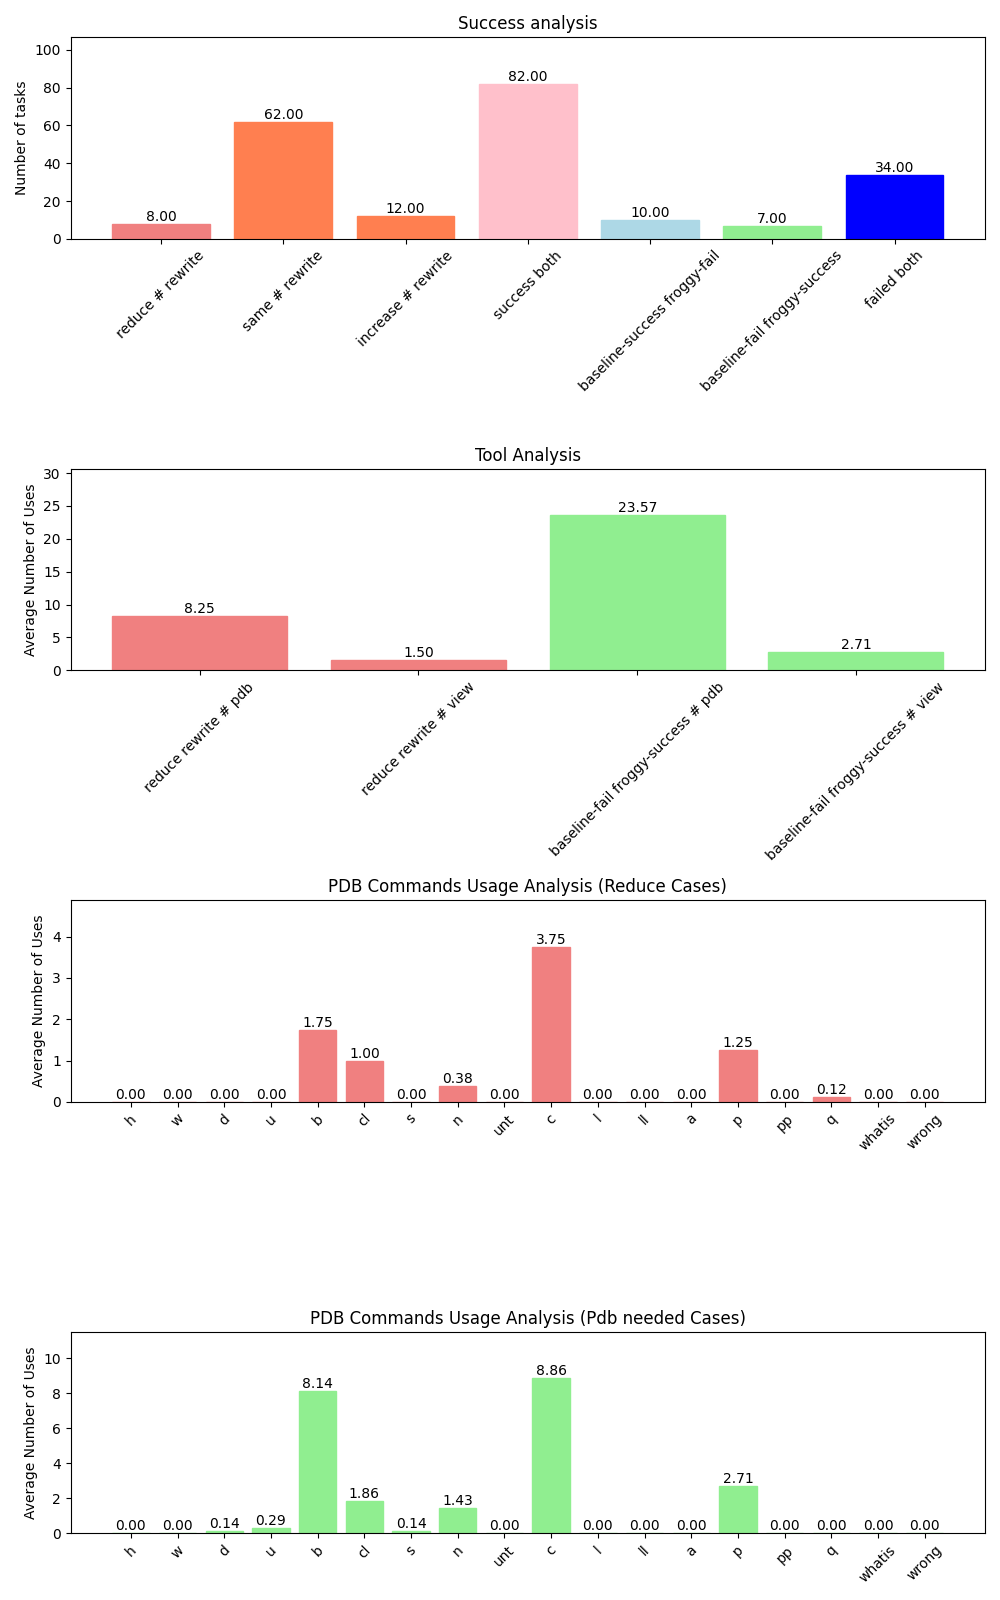
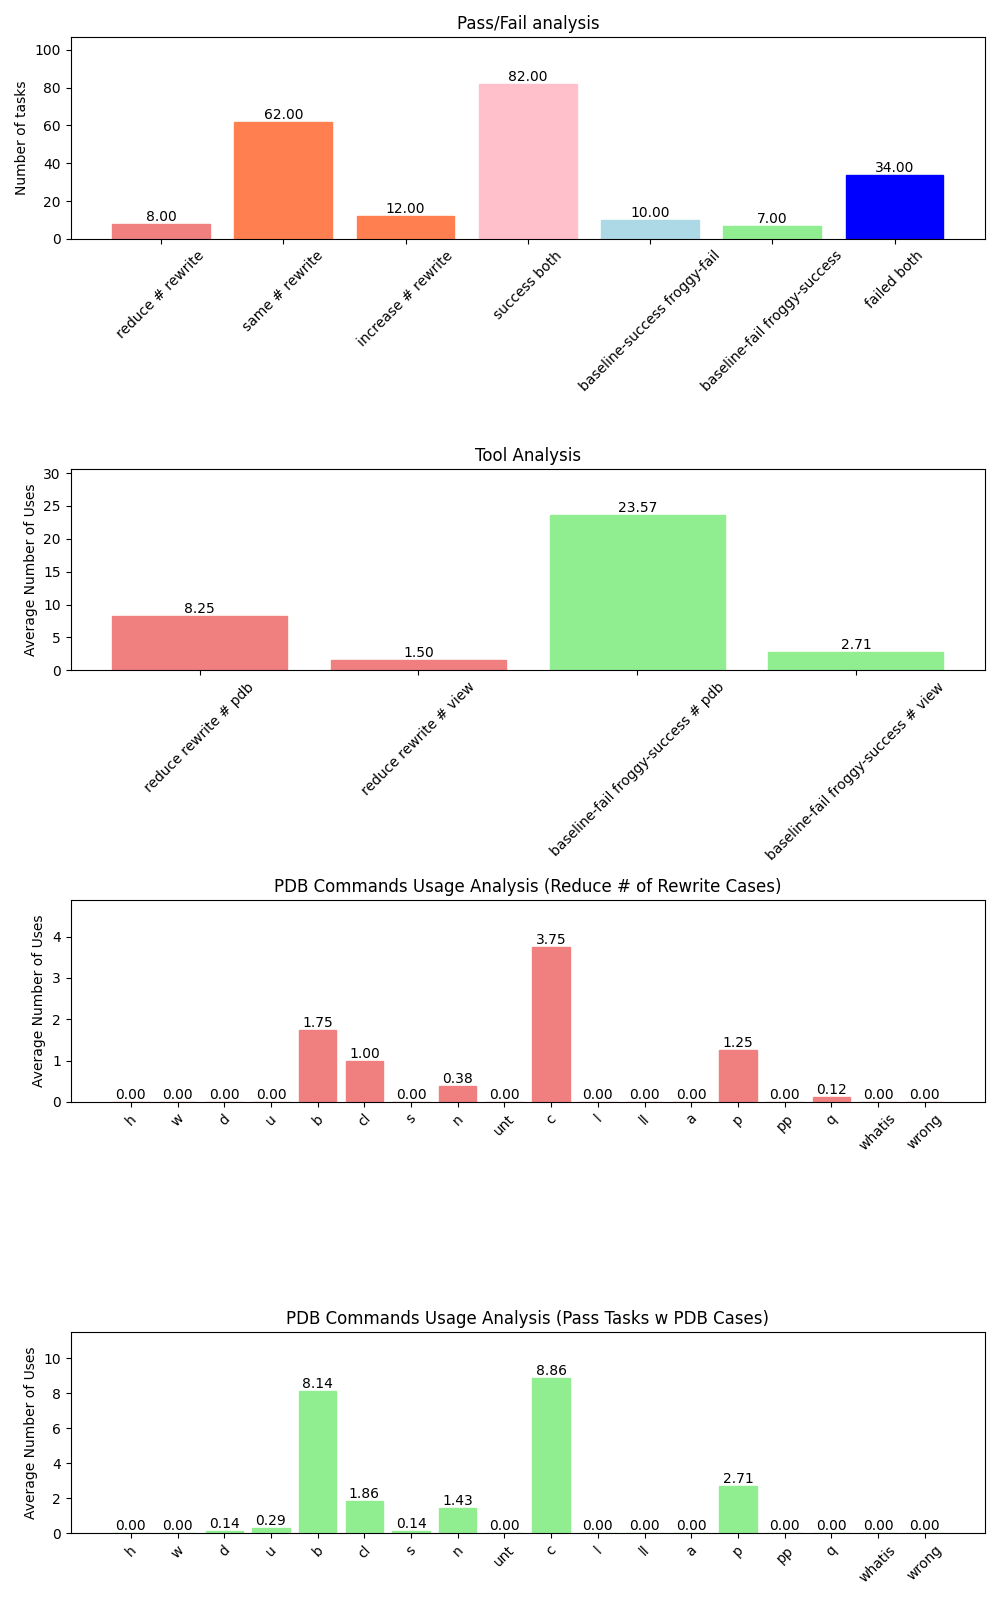
api update

Changed region(s): [[0.279, 0.5312, 0.775, 0.5625], [0.279, 0.8125, 0.744, 0.8438], [0.465, 0.0, 0.589, 0.0312]]

diff --git a/froggy/agents/zero_shot.py b/froggy/agents/zero_shot.py
@@ -48,7 +48,7 @@ class AgentZeroShot(AgentBase):
         else:
             tools = None
 
-        update_finish = False
+        tool_using = False
         for step in range(self.config["max_steps"]):
             highscore = max(highscore, info["score"])
             pbar.set_postfix_str(
@@ -58,53 +58,10 @@ class AgentZeroShot(AgentBase):
             )
 
             prompt = self.build_prompt(info)
-            answer, token_usage = self.llm(
-                    prompt, info, temperature=self.config["llm_temperature"][0], tools=tools
-                )
-            
-            if tools is None:
-                tool_calls = False
-            else:
-                tool_calls = answer.tool_calls
-                answer = answer.content
 
-            while tool_calls:
-                # Parse argument from the tool api call for environment input
-                prompt = self.build_prompt(info)
+            if not tools is None and tool_using:
                 tool_call_id = tool_calls[0].id
                 tool_function_name = tool_calls[0].function.name
-                if tool_function_name == "PDBTool":
-                    tool_query_string = json.loads(tool_calls[0].function.arguments)['pdb_command']
-                    env_input = "```pdb "+str(tool_query_string)+"```"
-                elif tool_function_name == "ViewTool":
-                    tool_query_string = json.loads(tool_calls[0].function.arguments)['path_to_file']
-                    env_input = "```view "+str(tool_query_string)+"```"
-                elif tool_function_name == "SubstitutionPatcher":
-                    arguments_list = json.loads(tool_calls[0].function.arguments)
-                    env_input = "```rewrite "
-                    if 'file_path' in arguments_list.keys():
-                        env_input += (" " + arguments_list['file_path'])
-                    if 'head_tail' in arguments_list.keys():
-                        env_input += (" " + arguments_list['head_tail'])
-                    env_input += (" " + arguments_list['new_code']+"```")
-                _, _, done, info = self.env.step(env_input)
-
-                info["token_usage"] = [
-                    token_usage
-                ]  # in some other agents this is a list because of multi-step llm calls
-
-                self.history.step(info)
-                self.history.save_prompt_response_pairs(
-                    prompt_response_pairs=[(prompt, env_input)]
-                )
-
-                step += 1
-                pbar.update()
-                
-                if step>=(self.config["max_steps"]-1):
-                    update_finish = True
-                    break
-
                 tool_call = [{"role":"assistant", 
                              "content": None,
                                  "tool_calls": [
@@ -126,27 +83,29 @@ class AgentZeroShot(AgentBase):
                 
                 prompt = prompt + tool_call
 
-                answer, token_usage = self.llm(
+            answer, token_usage = self.llm(
                     prompt, info, temperature=self.config["llm_temperature"][0], tools=tools
                 )
-                tool_calls = answer.tool_calls
-                answer = answer.content
+            
+            if not tools is None:
+                answer, tool_calls = answer
+                tool_using = True
                 
             if debug:
                 breakpoint()
             
-            if not update_finish:
-                _, _, done, info = self.env.step(answer)
-                
-                info["token_usage"] = [
-                    token_usage
-                ]  # in some other agents this is a list because of multi-step llm calls
-                self.history.step(info)
-                self.history.save_prompt_response_pairs(
-                    prompt_response_pairs=[(prompt, answer)]
-                )
+            _, _, done, info = self.env.step(answer)
+            
+            info["token_usage"] = [
+                token_usage
+            ]  # in some other agents this is a list because of multi-step llm calls
+            self.history.step(info)
+            self.history.save_prompt_response_pairs(
+                prompt_response_pairs=[(prompt, answer)]
+            )
 
-                pbar.update()
+            pbar.update()
+
             if done or info["rewrite_counter"] >= self.config["max_rewrite_steps"]:
                 pbar.set_postfix_str(
                     f"Score: {info['score']}/{info['max_score']} ({info['score']/info['max_score']:.1%})".format(

diff --git a/analysis/comparisons_aider.py b/analysis/comparisons_aider.py
@@ -152,7 +152,7 @@ def task_write(txt_file, task):
         with open(txt_file, 'a') as f_append: 
             f_append.write(f"{task}\n")  
         
-def compare_task_summary(base_summary, agent_summary, baseline_name, agent_name, output_name_path):
+def compare_task_summary(base_summary, agent_summary, agent_name, output_name_path):
     count_analysis = {"reduce # rewrite": 0, "same # rewrite":0, "increase # rewrite": 0, "success both": 0, "baseline-success froggy-fail": 0, "baseline-fail froggy-success": 0, "failed both": 0}
     tool_analysis = {"reduce rewrite # pdb": 0, "reduce rewrite # view": 0, "task_reduce": 0, "baseline-fail froggy-success # pdb": 0, "baseline-fail froggy-success # view": 0, "task_baseline-fail froggy-success": 0}
     
@@ -275,7 +275,7 @@ def main():
             baseline = parse_jsonl_files(root_folder, baseline_name)
             agent = parse_jsonl_files(root_folder, agent_name)
 
-            count_analysis, tool_analysis, pdb_analysis = compare_task_summary(baseline, agent, baseline_name, agent_name, output_name_path)
+            count_analysis, tool_analysis, pdb_analysis = compare_task_summary(baseline, agent, agent_name, output_name_path)
             total_count_analysis[agent_name] = count_analysis
             total_tool_analysis[agent_name] = tool_analysis
             total_pdb_analysis[agent_name] = pdb_analysis
@@ -306,12 +306,12 @@ def main():
                     3: 'lightgreen'}
 
     create_analysis_plots([final_count, final_tool, final_pdb_analysis["pdb_action_sum_rewrite"], final_pdb_analysis["pdb_action_sum_success"]], 
-            ['Success analysis', 'Tool Analysis', 'PDB Commands Usage Analysis (Reduce Cases)','PDB Commands Usage Analysis (Pdb needed Cases)'],
+            ['Pass/Fail analysis', 'Tool Analysis', 'PDB Commands Usage Analysis (Reduce # of Rewrite Cases)','PDB Commands Usage Analysis (Pass Tasks w PDB Cases)'],
             ['Number of tasks','Average Number of Uses','Average Number of Uses','Average Number of Uses'],
             [count_colors, tool_colors, {'all': 'lightcoral'}, {'all': 'lightgreen'}],
             './analysis/results/'+output_name_path+'.png')
     create_analysis_plots([final_count, final_pdb_analysis["pdb_action_sum_rewrite"], final_pdb_analysis["pdb_action_sum_trial"],  final_pdb_analysis["pdb_action_sum_fail"], final_pdb_analysis["pdb_action_sum_success"], final_pdb_analysis["pdb_action_sum_difficult"]],
-            ['Success analysis', 'PDB Commands Usage Analysis (Rewrite Cases)', 'PDB Commands Usage Analysis (Trial Cases)', 'PDB Commands Usage Analysis (Fail Cases)', 'PDB Commands Usage Analysis (Success Cases)', 'PDB Commands Usage Analysis (Difficult Cases)'],
+            ['Pass/Fail analysis', 'PDB Commands Usage Analysis (Rewrite Cases)', 'PDB Commands Usage Analysis (Trial Cases)', 'PDB Commands Usage Analysis (Fail Cases)', 'PDB Commands Usage Analysis (Success Cases)', 'PDB Commands Usage Analysis (Difficult Cases)'],
             ['Number of tasks','Average Number of Uses','Average Number of Uses','Average Number of Uses','Average Number of Uses','Average Number of Uses'],
             [count_colors, {'all': 'lightcoral'}, {'all': 'coral'},  {'all': 'lightblue'}, {'all': 'lightgreen'}, {'all': 'blue'}],
             './analysis/results/'+output_name_path+'_pdb.png')

diff --git a/froggy/agents/llm_api.py b/froggy/agents/llm_api.py
@@ -101,13 +101,13 @@ class TokenCounter:
     def __call__(self, *, messages=None, text=None):
         nb_tokens = 0
         if messages is not None:
-            nb_tokens += sum(len(self.tokenize(msg["content"])) for msg in messages)
-
+            for msg in messages:
+                if (msg["content"] is not None) and (msg["role"] in ["user", "assistant", "system"]):
+                        nb_tokens += len(self.tokenize(msg["content"])) 
         if text is not None:
             nb_tokens += len(self.tokenize(text))
 
         return nb_tokens
-
 
 class LLM:
     def __init__(self, model_name, verbose=False):
@@ -225,11 +225,43 @@ class LLM:
             # Color each role differently.
             print_messages(messages)
         response = self.query_model(messages, **kwargs)
+        tool_calls = False
+
         if not kwargs["tools"] is None:
-            token_usage = {
-                "prompt": 0,
-                "response": 0
-            }
+            if response.tool_calls:
+                tool_calls = response.tool_calls
+                tool_function_name = tool_calls[0].function.name
+                if tool_function_name == "PDBTool":
+                    tool_query_string = json.loads(tool_calls[0].function.arguments)['pdb_command']
+                    response = "```pdb "+str(tool_query_string)+"```"
+                elif tool_function_name == "ViewTool":
+                    tool_query_string = json.loads(tool_calls[0].function.arguments)['path_to_file']
+                    response = "```view "+str(tool_query_string)+"```"
+                elif tool_function_name == "SubstitutionPatcher":
+                    arguments_list = json.loads(tool_calls[0].function.arguments)
+                    response = "```rewrite "
+                    if 'file_path' in arguments_list.keys():
+                        response += (" " + arguments_list['file_path'])
+                    if 'head_tail' in arguments_list.keys():
+                        response += (" " + arguments_list['head_tail'])
+                    response += (" " + arguments_list['new_code']+"```")
+
+                token_usage = {
+                    "prompt": self.token_counter(messages=messages),
+                    "response": self.token_counter(text=response),
+                }
+                response = (response, tool_calls)
+
+            else:
+                response = response.content.strip()
+
+                if self.verbose:
+                    print(colored(response, "green"))
+
+                token_usage = {
+                    "prompt": self.token_counter(messages=messages),
+                    "response": self.token_counter(text=response),
+                }
         else:
             response = response.strip()
 
